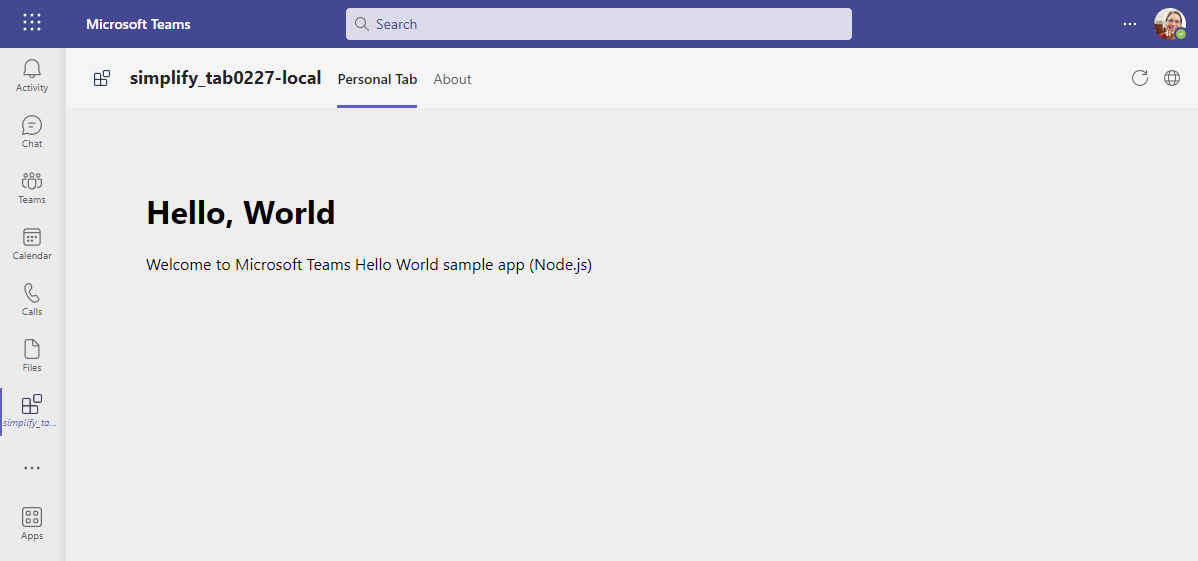
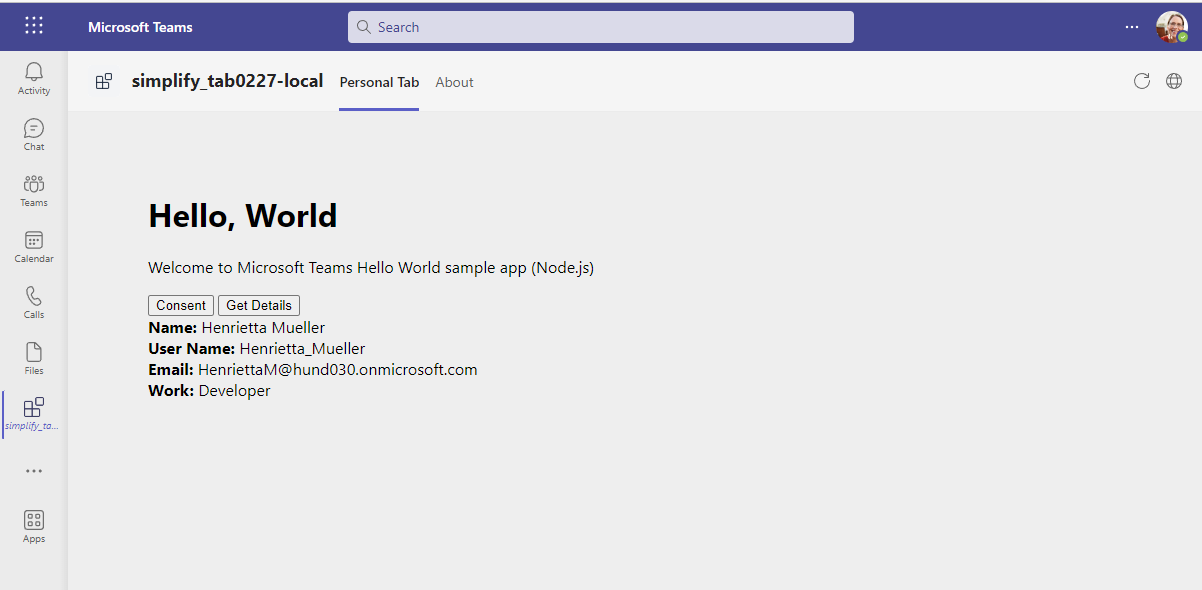
feat: exchange obo token

diff --git a/src/app.js b/src/app.js
@@ -2,7 +2,8 @@ const restify = require("restify");
 const send = require("send");
 const fs = require("fs");
 const { Client } = require("@microsoft/microsoft-graph-client");
-require('isomorphic-fetch');
+const msal = require('@azure/msal-node');
+require("isomorphic-fetch");
 
 //Create HTTP server.
 const server = restify.createServer({
@@ -38,6 +39,52 @@ server.get("/auth-start", (req, res, next) => {
 
 server.get("/auth-end.html", (req, res, next) => {
   send(req, "src/views/auth-end.html").pipe(res);
+});
+
+server.post("/getProfileOnBehalfOf", (req, res, next) => {
+  const tid = req.body.tid;
+  const token = req.body.token;
+  const scopes = ["User.Read"];
+
+  // Creating MSAL client
+  const msalClient = new msal.ConfidentialClientApplication({
+    auth: {
+      clientId: process.env.CLIENT_ID,
+      clientSecret: process.env.CLIENT_SECRET,
+    },
+  });
+
+  const oboPromise = new Promise((resolve, reject) => {
+    msalClient
+      .acquireTokenOnBehalfOf({
+        authority: `https://login.microsoftonline.com/${tid}`,
+        oboAssertion: token,
+        scopes: scopes,
+        skipCache: true,
+      })
+      .then(async (result) => {
+        const client = Client.init({
+          authProvider: (done) => {
+            done(null, result.accessToken.trim());
+          },
+        });
+        const profiles = await client.api("/me").get();
+        resolve(profiles);
+      })
+      .catch((error) => {
+        reject({ error: error.errorCode });
+      });
+  });
+
+  oboPromise.then(
+    function (result) {
+      res.json(result);
+    },
+    function (err) {
+      console.log(err); // Error: "It broke"
+      res.json(err);
+    }
+  );
 });
 
 server.post("/getUserInfo", async (req, res) => {

diff --git a/src/views/hello.html b/src/views/hello.html
@@ -72,7 +72,7 @@
       function getServerSideToken(clientSideToken) {
         return new Promise((resolve, reject) => {
           microsoftTeams.app.getContext().then((context) => {
-            fetch("/getUserInfo", {
+            fetch("/getProfileOnBehalfOf", {
               method: "post",
               headers: {
                 "Accept": "application/json",
